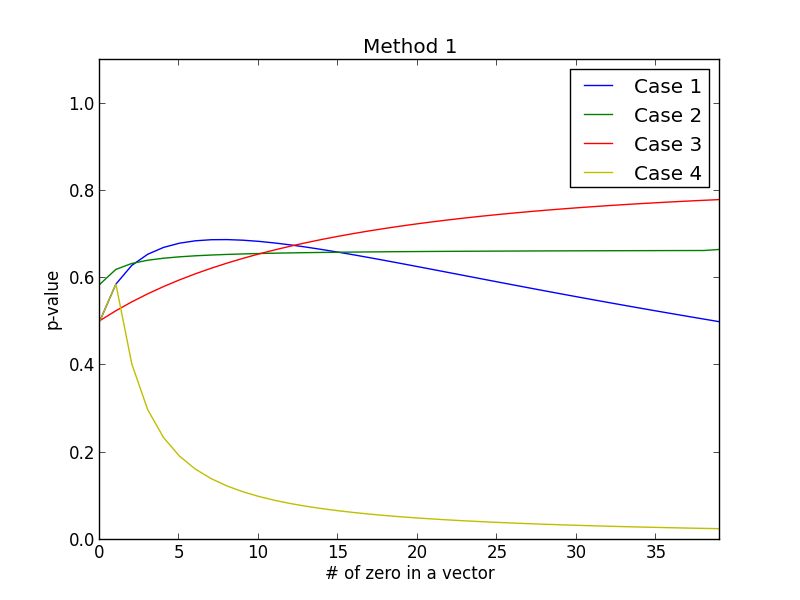
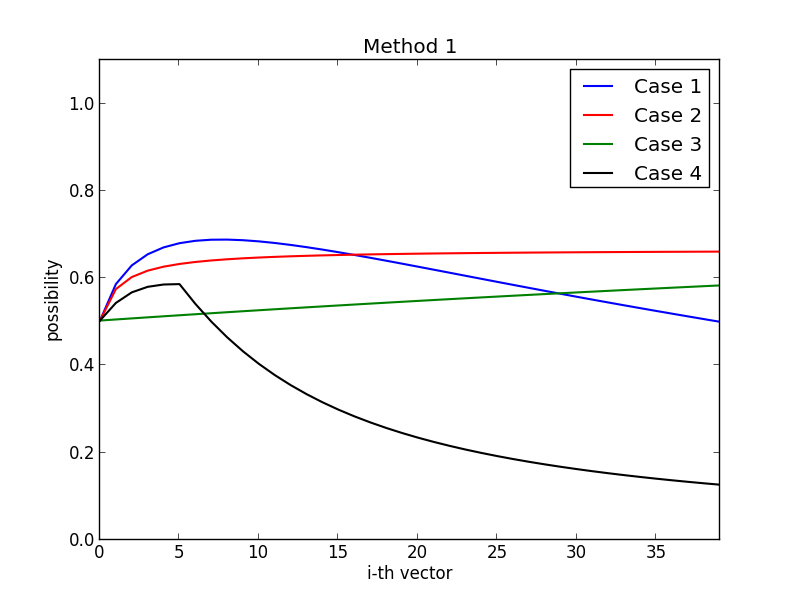
change results imgs

diff --git a/scoring.py b/scoring.py
@@ -4,14 +4,33 @@ import sys, mathutil, math, json, pickle
 import matplotlib.pyplot as plt
 from collections import defaultdict
 
-# p_value = json.load(open('p-value.json'))
+# M1: ps1
+# M2: p-value
+# M3: gaussian
+Method = 2
 
+## free
 alpha = math.exp(1)
-# alpha = 39
 
+## plot or not
+toPlot = True
+
+color = ['b','r', 'g', 'k']
+markers = ['+', '1', '2', '3', '4']
+# labels = ['Case 1','Case 2','Case 3','Case 4']
+## custom labels
+# custom = ['10, 1...1', '1000, 1...1']
+custom = None
+
+x_label = "i-th vector"
+y_label = ["possibility", "p-value", "p-value"]
+
+
+D = defaultdict(list)
 P = pickle.load(open('data/P-value.dict.pkl'))
 
 def fill(v, num=0, total=40):
+	# print total, len(v), total-len(v)
 	return v+[num]*(total-len(v))
 
 
@@ -26,37 +45,33 @@ def gen_vector(i, vtype):
 		v = [1]+[1]*i+[0]*(39-i)
 
 	## normalized, balance sum
-	## 1 |   0,   0,     0, ...,0
-	## 1 |   1,   0,     0, ...,0
-	## 1 |   0.5, 0.5,   0, ...,0
-	## 1 |   0.3, 0.3, 0.3, ...,0
+	## 1  |   1, 0, 0, 0, ...,0
+	## 2  |   1, 1, 0, 0, ...,0
+	## 3  |   1, 1, 1, 0, ...,0
+	## 4  |   1, 1, 1, 1, ...,0
 	## ...
-	## 1 |   0.025, 0.025,...,0.025
+	## 40 |   1, 1, 1, 1, ...,1
 	if vtype == 2:
-
-		v = [i+1] + [1]*(i+1)
-		v = fill(v, num=0, total=40)
-		# ni = 0 if i ==0 else 1.0/i
-		# v = [1]+[ni]*i+[0]*(39-i)
+		v = [i+1]+[1]*i+[0]*(39-i)
 	
 
-	## 10|   0, 0,...,0
-	## 10|   1, 0,...,0
-	## 10|   1, 1,...,0
+	## 100 |   1, 0, 0, ...,0
+	## 100 |   1, 1, 0, ...,0
+	## 100 |   1, 1, 1, ...,0
 	## ...
-	## 10|   1, 1,...,1
+	## 100 |   1, 1, 1, ...,1
 	if vtype == 3:
-		v = [10]+[1]*i+[0]*(39-i)
+		v = [100]+[1]*i+[0]*(39-i)
 
 
-	## 1 |   0,  0,...,0
-	## 1 |   1,  0,...,0
-	## 1 |   2,  0,...,0	
-	## 1 |   3,  0,...,0	
+	## 5 |   0,  0,...,0
+	## 5 |   1,  0,...,0
+	## 5 |   2,  0,...,0	
+	## 5 |   3,  0,...,0	
 	## ...
-	## 1 |   39, 0,...,0
+	## 5 |   39, 0,...,0
 	if vtype == 4:
-		v = [1]+[i]+[0]*38
+		v = [5]+[i]+[0]*38
 
 	return v
 
@@ -97,7 +112,6 @@ def cal_pval(v):
 	# print v, '\t', avg, '\t', round(std,3), '\t', z, '\t',p_value
 	return p_value	
 
-
 def cal_gaussian(V):
 	anchor = V[0]
 	VR = sorted(V, reverse=True)
@@ -107,7 +121,8 @@ def cal_gaussian(V):
 	std = mathutil.standard_deviation(dist)
 	var = mathutil.variance(dist)
 
-	xloc = mathutil.avg([i+1 for (i, v) in enumerate(VR) if v == anchor])
+	# xloc = mathutil.avg([i+1 for (i, v) in enumerate(VR) if v == anchor])
+	xloc = min([i+1 for (i, v) in enumerate(VR) if v == anchor])
 
 	## -1 or 1
 	inverse = -1 if anchor < max(V) else 1
@@ -130,14 +145,7 @@ def cal_gaussian(V):
 
 if __name__ == '__main__':
 	
-	D = defaultdict(list)
-
-	Method = 3
-
-	color = ['b','g', 'r', 'y']
-	labels = ['Case 1','Case 2','Case 3','Case 4']
-
-	for t in [1,2,3,4]:
+	for t in [1,2, 3,4]:
 
 		print
 
@@ -163,17 +171,27 @@ if __name__ == '__main__':
 
 			D[t].append(score)
 
-	legend = []
-	for i,t in enumerate(D):
-		plt.plot(range(40), D[t], color=color[i])
+	if toPlot:
+		legend = []
+		labels = []
+		for i,t in enumerate(D):
+			lines = plt.plot(range(40), D[t])
+			# lines = plt.scatter(range(40), D[t])
+			if not custom:
+				labels.append( 'Case ' + str(t) )
+			else:
+				labels.append( custom[i] )
+			plt.setp(lines, color=color[i], linewidth=1.5)
 
-	plt.title('Method '+str(Method))
-	plt.xlabel("# of zero in a vector")
-	plt.ylabel("p-value")
-	plt.legend( labels, loc='upper right')
-	# plt.legend(loc='upper right')
-	plt.ylim([0, 1.1])
-	plt.xlim([0, 39])
+		
 
-	plt.show()
+
+		plt.title('Method '+str(Method))
+		plt.xlabel(x_label)
+		plt.ylabel(y_label[Method-1])
+		plt.legend( labels, loc=1)
+		plt.ylim([0, 1.1])
+		plt.xlim([0, 39])
+
+		plt.show()
 
